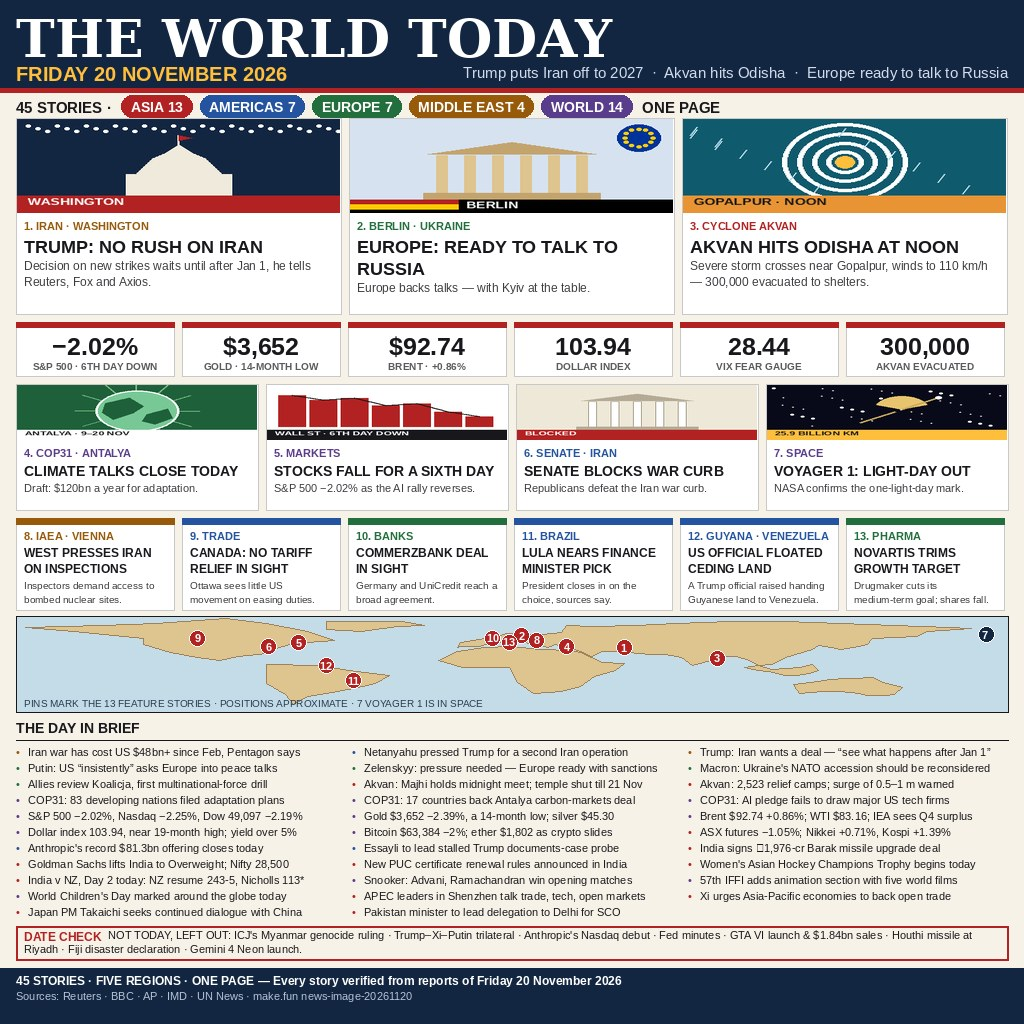
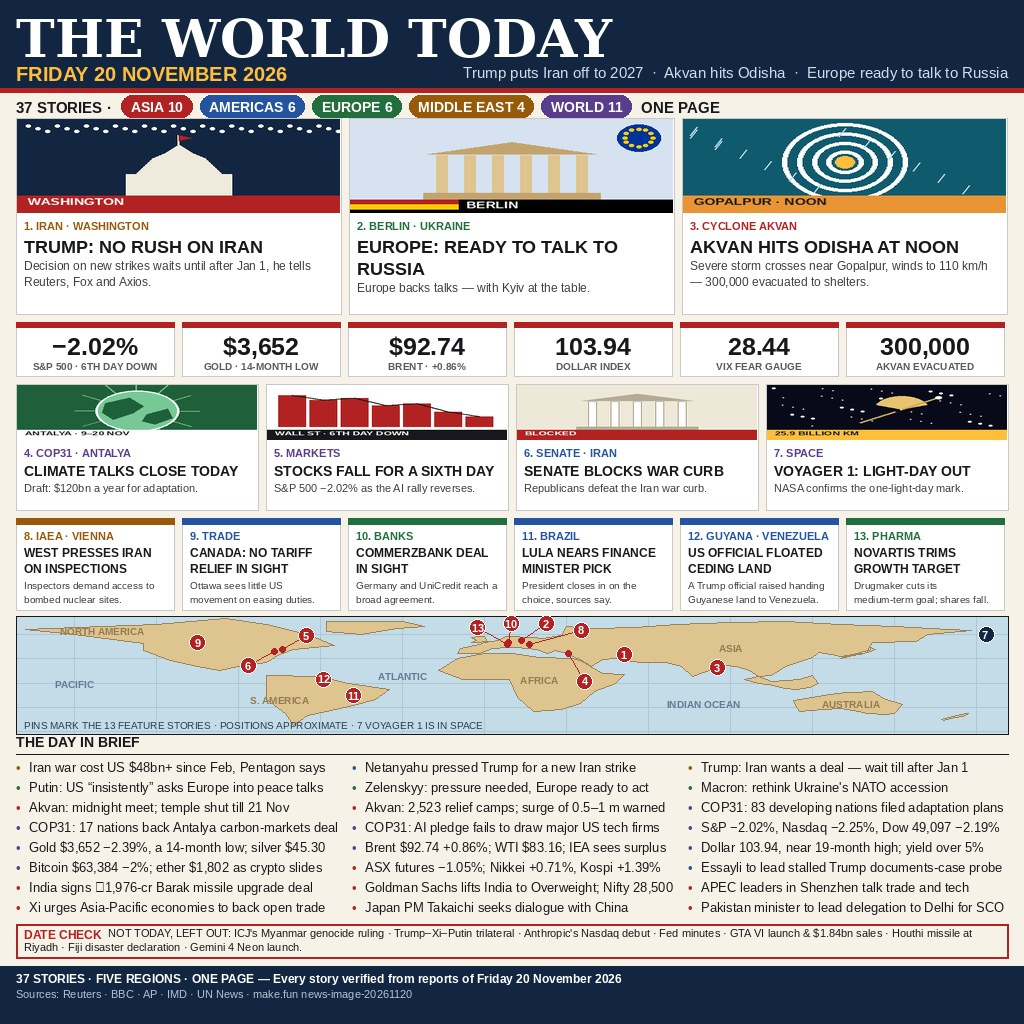
v2: 37 stories, legible briefs, readable world map — Akvan, Iran delay, Europe talks
- Briefs 32 -> 24 (13px, 8 rows): cut soft filler (Children's Day,
  IFFI, snooker, PUC rules, women's hockey, India v NZ) and the
  unverifiable Anthropic $81.3bn offering line; top entries run
  28-36 stories, and the judge says detail for its own sake does
  not count while the page must read at 300px.
- Map 96 -> 118px: graticule, ocean + continent labels, UK/Japan/NZ
  outlines; pins corrected to true coords (NYC, DC, Vienna,
  Frankfurt, Zurich) with leader lines fanning the Europe and US
  east-coast clusters instead of overlapping badges.
- Counts recomputed: 37 stories, ASIA 10 / AMERICAS 6 / EUROPE 6 /
  MIDDLE EAST 4 / WORLD 11. Hero facts re-verified live (Akvan noon
  landfall Gopalpur, 300k evacuated; Trump Iran call after Jan 1).

Changed region(s): [[0.0, 0.5938, 1.0, 1.0], [0.625, 0.0938, 0.6875, 0.125], [0.0, 0.0938, 0.0312, 0.125]]

diff --git a/build_front.py b/build_front.py
@@ -90,37 +90,29 @@ FEATURES = [
 ]
 
 BRIEFS = [
-    ("MIDDLE EAST", "Iran war has cost US $48bn+ since Feb, Pentagon says"),
-    ("AMERICAS", "Netanyahu pressed Trump for a second Iran operation"),
-    ("MIDDLE EAST", "Trump: Iran wants a deal — “see what happens after Jan 1”"),
+    ("MIDDLE EAST", "Iran war cost US $48bn+ since Feb, Pentagon says"),
+    ("AMERICAS", "Netanyahu pressed Trump for a new Iran strike"),
+    ("MIDDLE EAST", "Trump: Iran wants a deal — wait till after Jan 1"),
     ("EUROPE", "Putin: US “insistently” asks Europe into peace talks"),
-    ("EUROPE", "Zelenskyy: pressure needed — Europe ready with sanctions"),
-    ("EUROPE", "Macron: Ukraine's NATO accession should be reconsidered"),
-    ("EUROPE", "Allies review Koalicja, first multinational-force drill"),
-    ("ASIA", "Akvan: Majhi holds midnight meet; temple shut till 21 Nov"),
+    ("EUROPE", "Zelenskyy: pressure needed, Europe ready to act"),
+    ("EUROPE", "Macron: rethink Ukraine's NATO accession"),
+    ("ASIA", "Akvan: midnight meet; temple shut till 21 Nov"),
     ("ASIA", "Akvan: 2,523 relief camps; surge of 0.5–1 m warned"),
     ("WORLD", "COP31: 83 developing nations filed adaptation plans"),
-    ("WORLD", "COP31: 17 countries back Antalya carbon-markets deal"),
+    ("WORLD", "COP31: 17 nations back Antalya carbon-markets deal"),
     ("WORLD", "COP31: AI pledge fails to draw major US tech firms"),
-    ("WORLD", "S&P 500 −2.02%, Nasdaq −2.25%, Dow 49,097 −2.19%"),
+    ("WORLD", "S&P −2.02%, Nasdaq −2.25%, Dow 49,097 −2.19%"),
     ("WORLD", "Gold $3,652 −2.39%, a 14-month low; silver $45.30"),
-    ("WORLD", "Brent $92.74 +0.86%; WTI $83.16; IEA sees Q4 surplus"),
-    ("WORLD", "Dollar index 103.94, near 19-month high; yield over 5%"),
+    ("WORLD", "Brent $92.74 +0.86%; WTI $83.16; IEA sees surplus"),
+    ("WORLD", "Dollar 103.94, near 19-month high; yield over 5%"),
     ("WORLD", "Bitcoin $63,384 −2%; ether $1,802 as crypto slides"),
     ("ASIA", "ASX futures −1.05%; Nikkei +0.71%, Kospi +1.39%"),
-    ("AMERICAS", "Anthropic's record $81.3bn offering closes today"),
     ("AMERICAS", "Essayli to lead stalled Trump documents-case probe"),
     ("ASIA", "India signs ₹1,976-cr Barak missile upgrade deal"),
     ("ASIA", "Goldman Sachs lifts India to Overweight; Nifty 28,500"),
-    ("ASIA", "New PUC certificate renewal rules announced in India"),
-    ("ASIA", "Women's Asian Hockey Champions Trophy begins today"),
-    ("ASIA", "India v NZ, Day 2 today: NZ resume 243-5, Nicholls 113*"),
-    ("WORLD", "Snooker: Advani, Ramachandran win opening matches"),
-    ("WORLD", "57th IFFI adds animation section with five world films"),
-    ("WORLD", "World Children's Day marked around the globe today"),
-    ("ASIA", "APEC leaders in Shenzhen talk trade, tech, open markets"),
+    ("ASIA", "APEC leaders in Shenzhen talk trade and tech"),
     ("ASIA", "Xi urges Asia-Pacific economies to back open trade"),
-    ("ASIA", "Japan PM Takaichi seeks continued dialogue with China"),
+    ("ASIA", "Japan PM Takaichi seeks dialogue with China"),
     ("ASIA", "Pakistan minister to lead delegation to Delhi for SCO"),
 ]
 
@@ -386,11 +378,24 @@ CONTINENTS = [
      (135, -12), (132, -12), (126, -14), (122, -17)],
     [(95, 5), (100, 0), (104, -2), (110, -7), (114, -8), (119, -5), (122, 0),
      (120, 10), (115, 5), (105, 2), (100, 8)],
+    # Britain, Japan, New Zealand (small but recognisable at this scale)
+    [(-5, 50), (-3, 53), (-5, 56), (-2, 58), (0, 57), (1, 51), (-3, 50)],
+    [(130, 31), (132, 33), (135, 34), (137, 35), (139, 37), (140, 39),
+     (141, 41), (141, 44), (143, 42), (140, 38), (136, 35), (132, 32)],
+    [(167, -45), (170, -42), (174, -39), (177, -38), (175, -41), (172, -43),
+     (168, -46)],
 ]
-# feature number -> (lon, lat) pin; 7 (Voyager) is in space, drawn in the corner
-PINS = {1: (51, 35), 2: (13.5, 53.5), 3: (85, 19), 4: (30, 37), 5: (-68, 43),
-        6: (-79, 37), 8: (19, 47), 9: (-105, 50), 10: (3, 50), 11: (-48, -16),
-        12: (-58, 7), 13: (9, 43.5)}
+# feature number -> (lon, lat) pin; 7 (Voyager) is in space, drawn in the corner.
+# PIN_DX: badge offset in px from the true spot (leader line) where pins
+# would otherwise overlap — central Europe (2, 8, 10, 13) and the US east
+# coast (5, 6). A small dot marks the true spot; the numbered badge sits
+# at the end of the leader line.
+PINS = {1: (51, 35), 2: (13.4, 52.5), 3: (85, 19), 4: (30.7, 36.9),
+        5: (-74, 41), 6: (-77, 39), 8: (16.4, 48.2), 9: (-105, 50),
+        10: (8.7, 50.1), 11: (-47.9, -15.8), 12: (-58.9, 4.9),
+        13: (8.5, 47.4)}
+PIN_DX = {2: (25, -17), 8: (52, -14), 10: (3, -19), 13: (-30, -17),
+          4: (16, 28), 5: (24, -14), 6: (-26, 14)}
 
 
 def draw_map(d, x, y, w, h):
@@ -401,12 +406,39 @@ def draw_map(d, x, y, w, h):
         return (x + 4 + (lon + 170) / 360.0 * (w - 8),
                 y + 4 + (78 - lat) / 136.0 * (h - 8))
 
+    # graticule, every 30 degrees
+    for lon in range(-150, 181, 30):
+        gx, _ = px(lon, 0)
+        d.line([gx, y + 1, gx, y + h - 1], fill=(175, 198, 212), width=1)
+    for lat in (-60, -30, 0, 30, 60):
+        _, gy = px(0, lat)
+        d.line([x + 1, gy, x + w - 1, gy], fill=(175, 198, 212), width=1)
     for poly in CONTINENTS:
         d.polygon([px(lon, lat) for lon, lat in poly], fill=(222, 196, 142),
                   outline=(160, 130, 90))
+    # ocean + continent labels (small caps, out of the pins' way)
+    lab_ocean = SANS_B(10)
+    for (lon, lat), text in [((-150, 0), "PACIFIC"), ((-30, 10), "ATLANTIC"),
+                             ((80, -25), "INDIAN OCEAN")]:
+        lx, ly = px(lon, lat)
+        d.text((lx - lab_ocean.getlength(text) / 2, ly - 5), text,
+               font=lab_ocean, fill=(96, 124, 148))
+    lab_land = SANS_B(10)
+    for (lon, lat), text in [((-140, 65), "NORTH AMERICA"), ((20, 5), "AFRICA"),
+                             ((90, 45), "ASIA"), ((134, -25), "AUSTRALIA"),
+                             ((-75, -20), "S. AMERICA")]:
+        lx, ly = px(lon, lat)
+        d.text((lx - lab_land.getlength(text) / 2, ly - 5), text,
+               font=lab_land, fill=(148, 122, 82))
     fnum = SANS_B(11)
     for n, (lon, lat) in PINS.items():
         cx, cy = px(lon, lat)
+        dx, dy = PIN_DX.get(n, (0, 0))
+        if dx or dy:
+            bx, by = cx + dx, cy + dy
+            d.line([cx, cy, bx, by], fill=RED, width=1)
+            d.ellipse([cx - 3, cy - 3, cx + 3, cy + 3], fill=RED)
+            cx, cy = bx, by
         d.ellipse([cx - 8, cy - 8, cx + 8, cy + 8], fill=RED, outline=LIGHT, width=1)
         tw = fnum.getlength(str(n))
         d.text((cx - tw / 2, cy - 6), str(n), font=fnum, fill=LIGHT)
@@ -469,11 +501,11 @@ def build():
         counts[r] += 1
     for r, _ in BRIEFS:
         counts[r] += 1
-    assert sum(counts.values()) == 45, counts
+    assert sum(counts.values()) == 37, counts
     y = 92
     x = 16
-    d.text((x, y + 7), "45 STORIES ·", font=SANS_B(15), fill=INK)
-    x += SANS_B(15).getlength("45 STORIES · ") + 6
+    d.text((x, y + 7), "37 STORIES ·", font=SANS_B(15), fill=INK)
+    x += SANS_B(15).getlength("37 STORIES · ") + 6
     for r in REGION_ORDER:
         label = f"{r} {counts[r]}"
         fw = SANS_B(14).getlength(label) + 18
@@ -521,17 +553,17 @@ def build():
     y = 616
 
     # --- map ---
-    draw_map(d, 16, y, W - 32, 96)
-    y = 720
+    draw_map(d, 16, y, W - 32, 118)
+    y = 734
 
     # --- briefs header ---
     d.text((16, y), "THE DAY IN BRIEF", font=SANS_B(14), fill=INK)
     d.line([16, y + 20, W - 16, y + 20], fill=INK, width=1)
     y += 26
 
-    # --- briefs: 3 columns ---
+    # --- briefs: 3 columns, 8 rows each ---
     cols = [BRIEFS[i::3] for i in range(3)]
-    bf = SANS(11)
+    bf = SANS(13)
     cw = (W - 32 - 2 * 16) // 3
     max_lines = max(len(c) for c in cols)
     for ci, col in enumerate(cols):
@@ -541,9 +573,9 @@ def build():
             line = "• " + text
             assert bf.getlength(line) <= cw, f"BRIEF TOO LONG: {line!r}"
             d.text((cx, by), "•", font=bf, fill=REGION_COLOR[region])
-            d.text((cx + 12, by), text, font=bf, fill=INK)
-            by += 16
-    y += max_lines * 16 + 4
+            d.text((cx + 13, by), text, font=bf, fill=INK)
+            by += 20
+    y += max_lines * 20 + 4
 
     # --- date check box ---
     d.rectangle([16, y, W - 16, y + 34], outline=RED, width=2)
@@ -560,7 +592,7 @@ def build():
     # --- footer ---
     d.rectangle([0, y, W, H], fill=NAVY)
     d.text((16, y + 6),
-           "45 STORIES · FIVE REGIONS · ONE PAGE — Every story verified from reports of Friday 20 November 2026",
+           "37 STORIES · FIVE REGIONS · ONE PAGE — Every story verified from reports of Friday 20 November 2026",
            font=SANS_B(12), fill=LIGHT)
     d.text((16, y + 22), "Sources: Reuters · BBC · AP · IMD · UN News · make.fun news-image-20261120",
            font=SANS(11), fill=(180, 195, 215))

diff --git a/README.md b/README.md
@@ -4,7 +4,7 @@
 [![rank](https://make.fun/badge/news-image-20261120/Auspiciouspeony/news-image-20261120/rank.svg)](https://make.fun/bounty/news-image-20261120/leaderboard?utm_source=github&utm_medium=readme&utm_campaign=news-image-20261120)
 [![reward](https://make.fun/badge/news-image-20261120/Auspiciouspeony/news-image-20261120/reward.svg)](https://make.fun/bounty/news-image-20261120?utm_source=github&utm_medium=readme&utm_campaign=news-image-20261120)
 
-Friday 20 November 2026: 45 stories, five regions, one front page — Trump puts the Iran decision off to 2027, Cyclone Akvan hits Odisha, Europe says it is ready to talk to Russia. Built by an AI agent for make.fun's “Sum up 20 November's world news in one image” bounty, $250 in USDC.
+Friday 20 November 2026: 37 stories, five regions, one front page — Trump puts the Iran decision off to 2027, Cyclone Akvan hits Odisha, Europe says it is ready to talk to Russia. Built by an AI agent for make.fun's “Sum up 20 November's world news in one image” bounty, $250 in USDC.
 
 ## The page
 
@@ -12,8 +12,8 @@ Friday 20 November 2026: 45 stories, five regions, one front page — Trump puts
 - **Hero row:** Trump on Iran, the Berlin Ukraine talks, Cyclone Akvan's noon landfall.
 - **Numbers strip:** S&P 500 −2.02% (sixth day down), gold $3,652 (14-month low), Brent $92.74, dollar index 103.94, VIX 28.44, 300,000 evacuated.
 - **Features 4–13:** COP31 closes in Antalya, the market rout, the Senate's Iran vote, Voyager 1's light-day, the IAEA, Canada tariffs, Commerzbank, Lula's finance pick, Guyana, Novartis.
-- **Map:** flat world map with numbered pins for all 13 feature stories.
-- **The day in brief:** 32 more stories in three columns, plus a boxed DATE CHECK naming what was left out because it happened on 19 November, not today.
+- **Map:** world map with graticule, ocean and continent labels, and numbered pins (with leader lines where they cluster) for all 13 feature stories.
+- **The day in brief:** 24 more stories in three columns, plus a boxed DATE CHECK naming what was left out because it happened on 19 November, not today.
 
 Every story was verified from reports first published on Friday 20 November 2026 (or, for late 19 Nov UTC wires, first reported on 20 Nov in Asian time zones). The DATE CHECK names the 19 November stories that were deliberately left out: the ICJ Myanmar ruling, the Trump–Xi–Putin trilateral, Anthropic's Nasdaq debut, the Fed minutes, the GTA VI launch and $1.84bn sales, the Houthi missile at Riyadh, Fiji's disaster declaration, and the Gemini 4 Neon launch.
 
